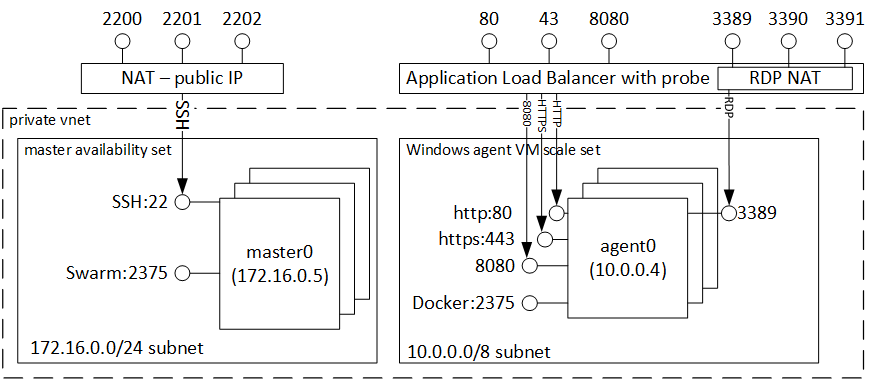
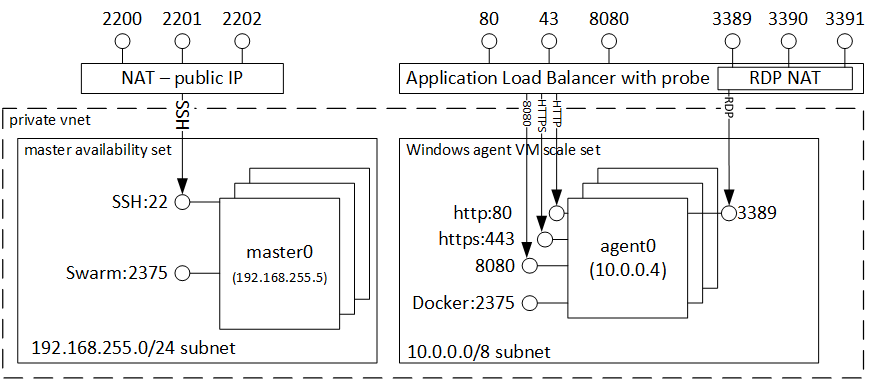
windows swarm bug fixes and documentation updates
- update readme file to include a simple web walk through
- fixed generation issues
- fixed hardcoded ip base address in shell script.  Now there is only a
single source of truth
- Windows Swarm Masters are now on 192.168.255.0/24 subnet, because they
were colliding with the windows containers address space.
- updated windows CSE to be 1.8

Changed region(s): [[0.0308, 0.8997, 0.2774, 0.9578], [0.2466, 0.6966, 0.4007, 0.7546]]

diff --git a/mesos-marathon-vmss/parts/gen-singleline-ps.py b/mesos-marathon-vmss/parts/gen-singleline-ps.py
@@ -1,0 +1,57 @@
+#!/usr/bin/python
+import base64
+import os
+import gzip
+import re
+import StringIO
+import sys
+
+# goal "commandToExecute": "[variables('jumpboxWindowsCustomScript')]"
+
+def convertToOneArmTemplateLine(file):
+    with open(file) as f:
+        content = f.read()
+
+    oneline=""
+    lines = content.split("\n")
+    for line in lines:
+        if (line.find("{") == -1 and line.find("}") == -1) or (line.find("{") > -1 and line.find("}") > -1):
+            oneline=oneline + " ; " + line
+        else:
+            oneline=oneline + line
+
+    oneline="'".join(oneline.split('"'))
+
+    codeRegEx=re.compile(r".arguments\s*=\s*'([^']*)'\s*;")
+    matchArray=codeRegEx.findall(oneline)
+    if len(matchArray)>1:
+        print oneline
+        raise AssertionError, "incorrect number of matches"
+    argumentList=''
+    if len(matchArray) == 1:
+        argumentList = matchArray[0]
+    oneline=codeRegEx.sub('',oneline)
+
+    return oneline,argumentList
+
+def usage():
+    print
+    print "    usage: %s file1" % os.path.basename(sys.argv[0])
+    print
+    print "    builds a one line string to send to commandToExecute"
+
+if __name__ == "__main__":
+    if len(sys.argv)!=2:
+        usage()
+        sys.exit(1)
+
+    file = sys.argv[1]
+    if not os.path.exists(file):
+        print "Error: file %s does not exist"
+        sys.exit(2)
+
+    # build the yml file for cluster
+    oneline, argumentList = convertToOneArmTemplateLine(file)
+
+    print 'powershell.exe -ExecutionPolicy Unrestricted -command "%s"' % oneline
+    #print '"commandToExecute": "powershell.exe -ExecutionPolicy Unrestricted -command \\"%s\\""' % (oneline)

diff --git a/mesos-marathon-vmss/parts/gen-arm-templates.py b/mesos-marathon-vmss/parts/gen-arm-templates.py
@@ -190,4 +190,4 @@ if __name__ == "__main__":
         shutil.copyfile(ARM_INPUT_PARAMETER_TEMPLATE, os.path.join(args.output_directory, ARM_OUTPUT_TEMPLATE_LINUX_JUMPBOX).replace(".json", ".parameters.json") )
         shutil.copyfile(ARM_INPUT_PARAMETER_TEMPLATE, os.path.join(args.output_directory, ARM_OUTPUT_TEMPLATE_WINDOWS_JUMPBOX).replace(".json", ".parameters.json") )
         shutil.copyfile(ARM_INPUT_PARAMETER_TEMPLATE, os.path.join(args.output_directory, ARM_OUTPUT_SWARM_TEMPLATE).replace(".json", ".parameters.json") )
-        shutil.copyfile(ARM_INPUT_PARAMETER_TEMPLATE, os.path.join(args.output_directory, ARM_OUTPUT_SWARM_TEMPLATE).replace(".json", ".parameters.json") )
+        shutil.copyfile(ARM_INPUT_PARAMETER_TEMPLATE, os.path.join(args.output_directory, ARM_OUTPUT_SWARM_WINDOWS_TEMPLATE).replace(".json", ".parameters.json") )

diff --git a/mesos-marathon-vmss/README.md b/mesos-marathon-vmss/README.md
@@ -153,9 +153,9 @@ This walk through is based the wonderful digital ocean tutorial: https://www.dig
 ## Explore Swarm with Simple hello world
  1. After successfully deploying the template write down the two output master and agent FQDNs.
  2. SSH to port 2200 of the master FQDN
- 3. Type `docker -H 172.16.0.5:2375 info` to see the status of the agent nodes.
+ 3. Type `docker -H :2375 info` to see the status of the agent nodes.
  ![Image of docker info](https://raw.githubusercontent.com/anhowe/scratch/master/mesos-marathon-vmss/images/dockerinfo.png)
- 4. Type `docker -H 172.16.0.5:2375 run hello-world` to see the hello-world test app run on one of the agents
+ 4. Type `docker -H :2375 run -it hello-world` to see the hello-world test app run on one of the agents
 
 ## Explore Swarm with a web-based Compose Script, then scale the script to all agents
  1. After successfully deploying the template write down the two output master and agent FQDNs.
@@ -167,7 +167,7 @@ web:
     - "80:80"
   restart: "always"
 ```
- 3.  type `export DOCKER_HOST=172.16.0.5:2375` so that docker-compose automatically hits the swarm endpoints
+ 3.  type `export DOCKER_HOST=:2375` so that docker-compose automatically hits the swarm endpoints
  4. type `docker-compose up -d` to create the simple web server.  this will take about a minute to pull the image
  5. once completed, type `docker ps` to see the running image.
  ![Image of docker ps](https://raw.githubusercontent.com/anhowe/scratch/master/mesos-marathon-vmss/images/dockerps.png)
@@ -176,7 +176,7 @@ web:
  7. You can now scale the web application by typing `docker-compose scale web=3`, and this will scale to the rest of your agents.  The Azure load balancer will automatically pick up the new containers.
  ![Image of docker scaling](https://raw.githubusercontent.com/anhowe/scratch/master/mesos-marathon-vmss/images/dockercomposescale.png)
 
- # Swarm Windows Cluster Walkthrough
+# Swarm Windows Cluster Walkthrough
 
 Once your Swarm Windows cluster has been created you will have a resource group containing 2 parts:
 
@@ -195,6 +195,26 @@ All VMs are on the same private vnet and masters on subnet 172.16.0.0/24, and ag
 3. Type `docker -H :2375 info` to see the status of the agent nodes.
 ![Image of docker info](https://raw.githubusercontent.com/anhowe/scratch/master/mesos-marathon-vmss/images/dockerinfowindows.png)
 4. Type `docker -H :2375 run --rm -i windowsservercore powershell -command "Write-Output 'hello world'"` to see the hello-world test app run on one of the agents
+
+## Explore Swarm with a web-based Compose Script, then scale the script to all agents
+ 1. After successfully deploying the template write down the two output master and agent FQDNs.
+ 2. type `export DOCKER_HOST=:2375` so that docker-compose automatically hits the swarm endpoints
+ 3. create the following docker-compose.yml file with the following content:
+```
+web:
+  image: "windowsservercore"
+  command: [powershell.exe, -command, "<#code used from https://gist.github.com/wagnerandrade/5424431#> ; $$ip = (Get-NetIPAddress | where {$$_.IPAddress -Like '*.*.*.*'})[0].IPAddress ; $$url = 'http://'+$$ip+':80/' ; $$listener = New-Object System.Net.HttpListener ; $$listener.Prefixes.Add($$url) ; $$listener.Start() ; $$callerCounts = @{} ; Write-Host('Listening at {0}...' -f $$url) ; while ($$listener.IsListening) { ;$$context = $$listener.GetContext() ;$$requestUrl = $$context.Request.Url ;$$clientIP = $$context.Request.RemoteEndPoint.Address ;$$response = $$context.Response ;Write-Host '' ;Write-Host('> {0}' -f $$requestUrl) ;  ;$$count = 1 ;$$k=$$callerCounts.Get_Item($$clientIP) ;if ($$k -ne $$null) { $$count += $$k } ;$$callerCounts.Set_Item($$clientIP, $$count) ;$$header='<html><body><H1>Windows Container Web Server</H1>' ;$$callerCountsString='' ;$$callerCounts.Keys | % { $$callerCountsString+='<p>IP {0} callerCount {1} ' -f $$_,$$callerCounts.Item($$_) } ;$$footer='</body></html>' ;$$content='{0}{1}{2}' -f $$header,$$callerCountsString,$$footer ;Write-Output $$content ;$$buffer = [System.Text.Encoding]::UTF8.GetBytes($$content) ;$$response.ContentLength64 = $$buffer.Length ;$$response.OutputStream.Write($$buffer, 0, $$buffer.Length) ;$$response.Close() ;$$responseStatus = $$response.StatusCode ;Write-Host('< {0}' -f $$responseStatus)  } ; "]
+  ports:
+    - "80:80"
+  restart: "always"
+```
+ 4. type `docker-compose up -d` to create the simple web server.  this will take about a minute to start the image
+ 5. once completed, type `docker ps` to see the running image.
+ ![Image of docker ps](https://raw.githubusercontent.com/anhowe/scratch/master/mesos-marathon-vmss/images/dockerpswindows.png)
+ 6. in your web browser hit the agent FQDN endpoint you recorded in step #1 and you should see the following page, with a counter that increases on each refresh.
+ ![Image of the web page](https://raw.githubusercontent.com/anhowe/scratch/master/mesos-marathon-vmss/images/swarmbrowserwindows.png)
+ 7. You can now scale the web application by typing `docker-compose scale web=3`, and this will scale to the rest of your agents.  The Azure load balancer will automatically pick up the new containers.
+ ![Image of docker scaling](https://raw.githubusercontent.com/anhowe/scratch/master/mesos-marathon-vmss/images/dockercomposescalewindows.png)
 
 # Sample Workloads
 
